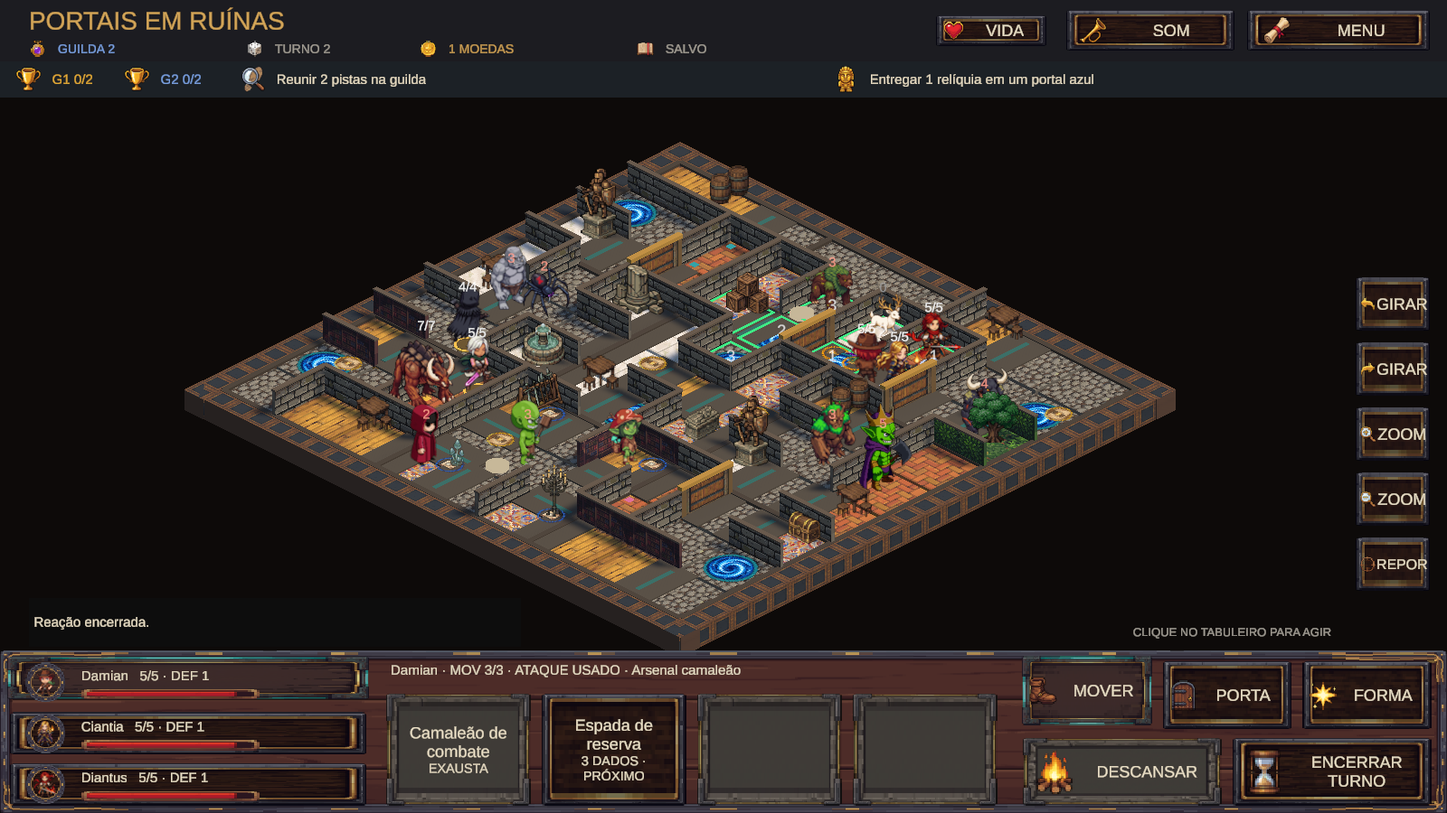
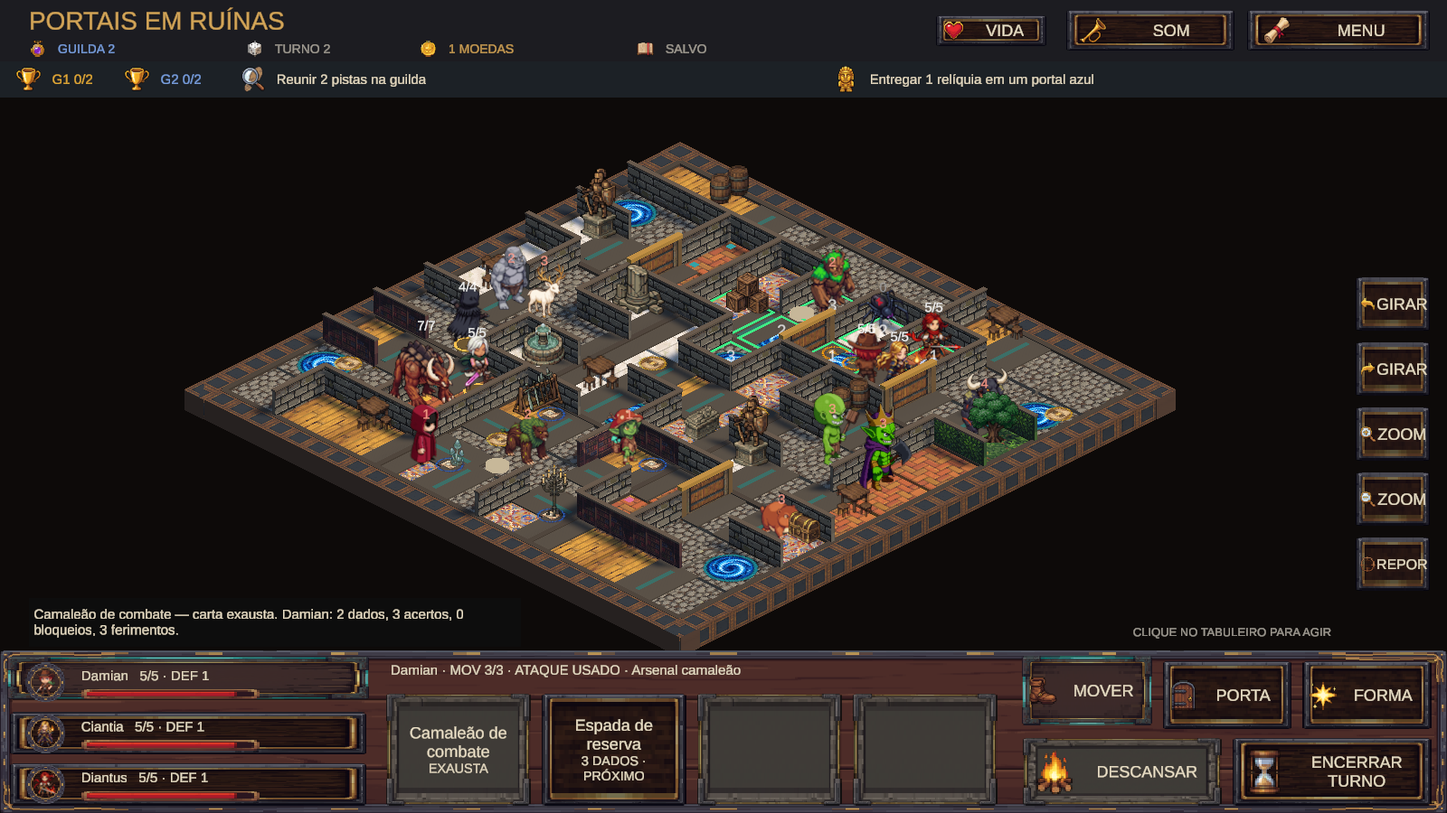
feat(dungeonbdx): enemies on Arcadia Quest level-1 stat lines and abilities
AqProfiles holds the card-list numbers (life, overkill, defense, move,
attack, coins) and ability of each reference monster; every enemy spawns
from one. Adds major minions, Papa-moedas, stray cats, Underlord guardian,
Lord Fang and Malkhor bosses, and the Havok young dragon line. The session
applies undying, pack, pierce, mend, cleave, brutal, quake, prickly,
might, breath and echo.

diff --git a/ArenaTaticaUnity/Assets/DungeonBDX/Arcadia/AqBoard.cs b/ArenaTaticaUnity/Assets/DungeonBDX/Arcadia/AqBoard.cs
@@ -35,12 +35,62 @@ namespace DungeonBDX.Arcadia
     }
     public sealed class AqSpawn
     {
-        public string HeroId,Name,SpriteFolder;
+        public string HeroId,Name,SpriteFolder,Profile,Ability,AbilityText;
         public AqCell Cell;
         public bool Ranged,Huge;
-        // Arcadia levels: minion, villain (minor villain), boss (major villain), dragon.
+        // Arcadia levels: minion (minor minion), major (major minion), villain (minor villain), boss (major villain), dragon.
         public string Tier="minion";
         public int Health=3,Defense,Dice=3,Movement=2,Overkill=5,Reward=1;
+    }
+    // Level-1 stat lines of the Arcadia Quest card list (KrosArcano/Arcadia_Quest_-_Card_List_1.2.xlsx, Monsters/Dragons).
+    // Only the numbers and the ability rule are reused; DungeonBDX enemies keep their own names and art.
+    // Attack dice above MaxDice (dragons roll 10) are capped by the session.
+    public sealed class AqProfile
+    {
+        public string Id,Reference,Tier,Ability,AbilityText;
+        public int Life,Overkill,Defense,Move,Attack,Coins;
+        public bool Ranged;
+    }
+    public static class AqProfiles
+    {
+        public static readonly IReadOnlyDictionary<string,AqProfile> All=Build();
+        static Dictionary<string,AqProfile> Build()
+        {
+            var d=new Dictionary<string,AqProfile>(StringComparer.Ordinal);
+            void P(string id,string reference,string tier,int life,int overkill,int defense,int move,bool ranged,int attack,int coins,string ability=null,string text=null)
+                =>d[id]=new AqProfile{Id=id,Reference=reference,Tier=tier,Life=life,Overkill=overkill,Defense=defense,Move=move,Ranged=ranged,Attack=attack,Coins=coins,Ability=ability,AbilityText=text};
+            // Minor minions.
+            P("marauder","Orc Marauder","minion",2,3,0,1,false,3,1);
+            P("skelebone","Skelebone","minion",2,5,1,1,false,3,1);
+            P("jackal","Jacklol","minion",2,3,1,3,false,2,1);
+            P("demoness","Demoness","minion",2,4,0,2,false,3,1);
+            P("pet","Wild Pet","minion",2,3,1,1,false,2,1);
+            P("zombie","Slasher Zombie","minion",2,2,0,1,false,2,1,"undying","Morto-vivo: descarta os ferimentos se não sofrer overkill.");
+            P("archer","Goblin Archer","minion",1,2,0,1,true,2,1);
+            P("harpy","Harpy","minion",1,2,0,3,true,2,1);
+            P("flinger","Axe Flinger Zombie","minion",2,2,0,1,true,2,1,"undying","Morto-vivo: descarta os ferimentos se não sofrer overkill.");
+            // Major minions.
+            P("hammer","Hammer Beastman","major",3,5,0,1,false,4,2);
+            P("korilla","Korilla","major",3,4,1,2,false,4,2);
+            P("ghost","Ghost","major",4,3,0,3,false,3,2);
+            P("spear","Spear Beastman","major",3,5,0,1,true,3,2,"pack","Matilha: +1 dado se estiver Perto de outro monstro.");
+            P("hornet","Hedgehornet","major",2,4,2,2,true,3,2,"pierce","Ferrão: com crítico, o alvo não rola defesa.");
+            P("sister","Sister of Pleasure","major",3,5,0,1,true,3,2,"mend","Deleite: cada crítico cura 2 ferimentos dele.");
+            // Minor villains.
+            P("troll","Troll","villain",4,6,2,2,false,4,3,"cleave","Varredura: ataca todos os heróis Perto.");
+            P("minotaur","Minotaur","villain",5,6,1,2,false,4,3,"brutal","Brutal: cada crítico causa 1 acerto extra.");
+            P("leah","Leah","villain",4,6,2,3,false,4,3,"quake","Rasante: depois de atacar, cada herói Perto sofre 1 ferimento.");
+            P("owlbunny","Owlbunny","villain",3,4,0,2,false,3,2,"prickly","Espinhento: quem o ataca sofre 1 ferimento antes.");
+            // Major villains.
+            P("dread","Dread King","boss",3,4,0,2,false,4,3,"might","Couraça: só críticos acertam.");
+            P("malkhor","Malkhor","boss",6,6,1,2,true,4,3,"brutal","Brutal: cada crítico causa 1 acerto extra.");
+            P("fang","Lord Fang","boss",5,7,0,1,true,4,3,"breath","Sede: também ataca os heróis Perto do alvo.");
+            P("underlord","The Underlord","boss",6,7,1,0,true,4,3,"echo","Eco: cada crítico fere 1 vez os outros heróis da guilda do alvo.");
+            // Young dragon, initial side (Havok).
+            P("dragon","Havok (Young - Initial)","dragon",10,11,2,1,true,10,4,"breath+might","Bafo e Couraça: atinge os heróis Perto do alvo; só críticos o acertam.");
+            return d;
+        }
+        public static bool Has(string ability,string id)=>!string.IsNullOrEmpty(ability)&&ability.Split('+').Contains(id);
     }
     public sealed class AqScenario
     {
@@ -178,7 +228,8 @@ namespace DungeonBDX.Arcadia
             for(int i=0;i<4;i++)s.Tokens.Add(new AqToken{Id="relic"+i,Kind="relic",Color="gold",Cell=new AqCell(6,3)});
             foreach(var c in new[]{new AqCell(4,7),new AqCell(1,4),new AqCell(7,4),new AqCell(4,1)})Monster(s,c.X,c.Y);
             foreach(var c in new[]{new AqCell(0,5),new AqCell(2,3),new AqCell(7,3),new AqCell(4,7)})Monster(s,c.X,c.Y,true);
-            Boss(s,"rei-goblin-ferrugem","Rei Goblin Ferrugem",4,0);Villain(s,"brumak","Capataz da ferrugem",6,0);
+            Spawn(s,"rei-goblin-ferrugem","Rei Goblin Ferrugem",4,0,"dread");Spawn(s,"brumak","Capataz da ferrugem",6,0,"troll");
+            Spawn(s,"papa-moedas","Papa-moedas do tesouro",2,0,"owlbunny");
             s.Name="PORTAIS EM RUÍNAS";s.Subtitle="Capítulo I · investigação e transporte";
             s.Story="Os portais da cidade foram sabotados. Investigue duas pistas nas oficinas ou retire uma relíquia da câmara do ritual e entregue-a em um portal azul para restaurar a rede. As guildas rivais também procuram o responsável.";
             s.Ending="A rede volta a brilhar. Entre os vestígios surge o selo de uma confraria que opera sob a praça.";
@@ -219,36 +270,34 @@ namespace DungeonBDX.Arcadia
         }
         static void Token(AqScenario s,string kind,int x,int y,string color="blue")
             =>s.Tokens.Add(new AqToken{Id=kind+s.Tokens.Count,Kind=kind,Color=color,Cell=new AqCell(x,y)});
-        // Each chapter alternates its own minions (one of each per spawn row); combat numbers stay those of the melee/ranged profile.
-        // Non-playable Arena characters (author, 17/10) fill the rows with chapter names; an id is never both melee and ranged in a chapter.
-        static readonly Dictionary<string,(string id,string name)[]> Melee=new Dictionary<string,(string,string)[]>{
-            ["portais-em-ruinas"]=new[]{("ogro-de-pedra","Saqueador de pedra"),("troll-esgoto","Troll do esgoto"),("raizor","Espinheiro do canal"),("guardiao-de-musgo","Musgoso das ruínas")},
-            ["praca-dos-quatro-emblemas"]=new[]{("domador-de-correntes","Carcereiro da confraria"),("lobo-de-cinzas","Lobo de cinzas"),("brumak","Arrombador da confraria"),("gryvro","Grifo de rapina")},
-            ["resgate-nas-catacumbas"]=new[]{("esqueleto-lanceiro","Esqueleto lanceiro"),("viuva-da-agulha","Viúva da agulha"),("devon","Morto inquieto"),("ossyro","Ceifador da cripta")}};
-        static readonly Dictionary<string,(string id,string name)[]> Shooters=new Dictionary<string,(string,string)[]>{
-            ["portais-em-ruinas"]=new[]{("cultista-encapuzado","Cultista encapuzado"),("nixira","Xamã dos cogumelos"),("alvyr","Aprendiz renegado"),("viuva-da-agulha","Tecelã de teias")},
-            ["praca-dos-quatro-emblemas"]=new[]{("vespa-cinzenta","Vespa cinzenta"),("cultista-encapuzado","Cultista encapuzado"),("rei-bobett","Coletor de tributos"),("alvyr","Arcanista da confraria")},
-            ["resgate-nas-catacumbas"]=new[]{("nixira","Xamã dos cogumelos"),("cultista-encapuzado","Cultista encapuzado"),("teantha","Espectro da foice"),("alvyr","Vidente do ritual")}};
+        // Each chapter alternates its own minions (one of each per spawn row): three minor minions and one major minion per side,
+        // each on the Arcadia level-1 line of its profile. Non-playable Arena characters keep chapter names; an id is never both melee and ranged in a chapter.
+        static readonly Dictionary<string,(string id,string name,string profile)[]> Melee=new Dictionary<string,(string,string,string)[]>{
+            ["portais-em-ruinas"]=new[]{("ogro-de-pedra","Saqueador de pedra","marauder"),("raizor","Espinheiro do canal","jackal"),("guardiao-de-musgo","Musgoso das ruínas","skelebone"),("troll-esgoto","Troll do esgoto","hammer")},
+            ["praca-dos-quatro-emblemas"]=new[]{("domador-de-correntes","Carcereiro da confraria","marauder"),("lobo-de-cinzas","Lobo de cinzas","jackal"),("gryvro","Grifo de rapina","demoness"),("brumak","Arrombador da confraria","korilla")},
+            ["resgate-nas-catacumbas"]=new[]{("esqueleto-lanceiro","Esqueleto lanceiro","skelebone"),("devon","Morto inquieto","zombie"),("viuva-da-agulha","Viúva da agulha","demoness"),("ossyro","Ceifador da cripta","ghost")}};
+        static readonly Dictionary<string,(string id,string name,string profile)[]> Shooters=new Dictionary<string,(string,string,string)[]>{
+            ["portais-em-ruinas"]=new[]{("cultista-encapuzado","Cultista encapuzado","archer"),("nixira","Xamã dos cogumelos","archer"),("viuva-da-agulha","Tecelã de teias","harpy"),("alvyr","Aprendiz renegado","spear")},
+            ["praca-dos-quatro-emblemas"]=new[]{("vespa-cinzenta","Vespa cinzenta","harpy"),("cultista-encapuzado","Cultista encapuzado","archer"),("alvyr","Arcanista da confraria","archer"),("rei-bobett","Coletor de tributos","hornet")},
+            ["resgate-nas-catacumbas"]=new[]{("nixira","Xamã dos cogumelos","archer"),("cultista-encapuzado","Cultista encapuzado","flinger"),("teantha","Espectro da foice","harpy"),("alvyr","Vidente do ritual","sister")}};
         // PixelLab enemies without an Arena fighter entry; their folders are passed straight to the unit.
         public static readonly IReadOnlyDictionary<string,string> EnemyArt=new Dictionary<string,string>{
             ["troll-esgoto"]="TrollEsgoto",["cultista-encapuzado"]="CultistaEncapuzado",["esqueleto-lanceiro"]="EsqueletoLanceiro",
-            ["rei-goblin-ferrugem"]="ReiGoblinFerrugem",["conde-vesperal"]="CondeVesperal",["necromante-cripta"]="NecromanteCripta"};
-        static AqSpawn Spawn(string id,string name,int x,int y)
-            =>new AqSpawn{HeroId=id,Name=name,Cell=new AqCell(x,y),SpriteFolder=EnemyArt.TryGetValue(id,out var f)?f:null};
-        // Chapter bosses: tougher than minions and worth 2 coins.
-        static void Boss(AqScenario s,string id,string name,int x,int y,bool ranged=false)
-        {var b=Spawn(id,name,x,y);b.Tier="boss";b.Ranged=ranged;b.Health=ranged?4:5;b.Defense=1;b.Dice=3;b.Overkill=6;b.Reward=2;s.Monsters.Add(b);}
-        // Minor villain (one per chapter): between a minion and the boss, worth 2 coins.
-        static void Villain(AqScenario s,string id,string name,int x,int y,bool ranged=false)
-        {var v=Spawn(id,name,x,y);v.Tier="villain";v.Ranged=ranged;v.Health=4;v.Defense=1;v.Dice=3;v.Overkill=5;v.Reward=2;s.Monsters.Add(v);}
-        // Young dragon (chapter III), simplified from the Arcadia dragons: fills its space, breathes from range, worth 4 coins.
-        static void Dragon(AqScenario s,string id,string name,int x,int y)
-        {var d=Spawn(id,name,x,y);d.Tier="dragon";d.Huge=true;d.Ranged=true;d.Health=9;d.Defense=2;d.Dice=5;d.Overkill=10;d.Reward=4;s.Monsters.Add(d);}
+            ["rei-goblin-ferrugem"]="ReiGoblinFerrugem",["conde-vesperal"]="CondeVesperal",["necromante-cripta"]="NecromanteCripta",
+            ["papa-moedas"]="PapaMoedas",["gato-malhado"]="GatoMalhado",["gato-laranja"]="GatoLaranja",["gato-branco"]="GatoBranco",["gato-manchado"]="GatoManchado"};
+        // Every enemy takes the whole line of its profile: life, overkill, defense dice, move, attack dice, coins and ability.
+        static AqSpawn Spawn(AqScenario s,string id,string name,int x,int y,string profile)
+        {
+            var p=AqProfiles.All[profile];
+            var m=new AqSpawn{HeroId=id,Name=name,Cell=new AqCell(x,y),SpriteFolder=EnemyArt.TryGetValue(id,out var f)?f:null,Profile=profile,Tier=p.Tier,
+                Ranged=p.Ranged,Health=p.Life,Overkill=p.Overkill,Defense=p.Defense,Movement=p.Move,Dice=p.Attack,Reward=p.Coins,Ability=p.Ability,AbilityText=p.AbilityText,Huge=p.Tier=="dragon"};
+            s.Monsters.Add(m);return m;
+        }
         static void Monster(AqScenario s,int x,int y,bool ranged=false)
         {
-            (string id,string name)[] table=(ranged?Shooters:Melee).TryGetValue(s.Id??"",out var list)?list:new[]{ranged?("cultista-encapuzado","Cultista encapuzado"):("ogro-de-pedra","Saqueador de pedra")};
-            var pick=table[s.Monsters.Count(m=>m.Ranged==ranged)%table.Length];
-            var m=Spawn(pick.id,pick.name,x,y);m.Ranged=ranged;m.Health=ranged?2:3;m.Dice=ranged?2:3;m.Overkill=ranged?4:5;s.Monsters.Add(m);
+            (string id,string name,string profile)[] table=(ranged?Shooters:Melee).TryGetValue(s.Id??"",out var list)?list:new[]{ranged?("cultista-encapuzado","Cultista encapuzado","archer"):("ogro-de-pedra","Saqueador de pedra","marauder")};
+            var pick=table[s.Monsters.Count(m=>m.Ranged==ranged&&(m.Tier=="minion"||m.Tier=="major"))%table.Length];
+            Spawn(s,pick.id,pick.name,x,y,pick.profile);
         }
         static void Plaza(AqScenario s)
         {
@@ -268,8 +317,11 @@ namespace DungeonBDX.Arcadia
             foreach(var c in new[]{new AqCell(1,3),new AqCell(7,3),new AqCell(3,7),new AqCell(3,1)})Monster(s,c.X,c.Y);
             foreach(var c in new[]{new AqCell(1,5),new AqCell(7,5),new AqCell(5,7),new AqCell(5,1)})Monster(s,c.X,c.Y,true);
             foreach(var c in new[]{new AqCell(0,2),new AqCell(8,6),new AqCell(2,8),new AqCell(6,0),new AqCell(3,4),new AqCell(5,4)})Token(s,"explore",c.X,c.Y);
-            s.Monsters.Add(new AqSpawn{HeroId="brutamontes-errante",Name="Guardião da praça",Cell=new AqCell(4,4),Tier="boss",Huge=true,Health=7,Defense=1,Dice=4,Overkill=8,Reward=3});
-            Villain(s,"ossyro","Carrasco da confraria",5,8);
+            Spawn(s,"brutamontes-errante","Guardião da praça",4,4,"underlord").Huge=true;
+            // Wild pets of the square: stray cats around the central plaza.
+            Spawn(s,"gato-malhado","Gato de rua",3,3,"pet");Spawn(s,"gato-laranja","Gato de rua",5,5,"pet");
+            Spawn(s,"gato-branco","Gato de rua",3,5,"pet");Spawn(s,"gato-manchado","Gato de rua",5,3,"pet");
+            Spawn(s,"ossyro","Carrasco da confraria",5,8,"minotaur");
         }
         static void Catacombs(AqScenario s)
         {
@@ -289,8 +341,8 @@ namespace DungeonBDX.Arcadia
             Token(s,"portal",2,6);Token(s,"portal",6,2);Token(s,"portal",2,2,"violet");Token(s,"portal",6,6,"violet");
             foreach(var c in new[]{new AqCell(1,4),new AqCell(7,4),new AqCell(4,6),new AqCell(4,2)})Monster(s,c.X,c.Y);
             foreach(var c in new[]{new AqCell(1,5),new AqCell(7,3),new AqCell(3,7),new AqCell(5,1)})Monster(s,c.X,c.Y,true);
-            Boss(s,"necromante-cripta","Necromante da Cripta",3,5,true);Boss(s,"conde-vesperal","Conde Vesperal",5,3);
-            Villain(s,"gryvro","Grifo das criptas",6,5);Dragon(s,"dragao-espectral","Dragão espectral",4,4);
+            Spawn(s,"necromante-cripta","Necromante da Cripta",3,5,"malkhor");Spawn(s,"conde-vesperal","Conde Vesperal",5,3,"fang");
+            Spawn(s,"gryvro","Grifo das criptas",6,5,"leah");Spawn(s,"dragao-espectral","Dragão espectral",4,4,"dragon");
             foreach(var c in new[]{new AqCell(0,6),new AqCell(8,2),new AqCell(2,8),new AqCell(6,0),new AqCell(4,4),new AqCell(0,2),new AqCell(8,6)})Token(s,"explore",c.X,c.Y);
         }
         // Extra scenery only: never replaces a room prop and has no rule effect.

diff --git a/ArenaTaticaUnity/Assets/DungeonBDX/Arcadia/AqSession.cs b/ArenaTaticaUnity/Assets/DungeonBDX/Arcadia/AqSession.cs
@@ -73,7 +73,7 @@ namespace DungeonBDX.Arcadia
                 Units.Last(u=>u.Guild==g).Gear.Add(new AqGear{Id="bow."+g,Name="Arco de reserva",Dice=2,Ranged=true});
             }
             foreach(var m in Scenario.Monsters)
-                Units.Add(new AqUnit{Id=Units.Count,Guild=-1,Monster=true,HeroId=m.HeroId,Name=m.Name??(m.HeroId=="brutamontes-errante"?"Guardião da praça":"Saqueador de pedra"),SpriteFolder=m.SpriteFolder,
+                Units.Add(new AqUnit{Id=Units.Count,Guild=-1,Monster=true,HeroId=m.HeroId,Name=m.Name??(m.HeroId=="brutamontes-errante"?"Guardião da praça":"Saqueador de pedra"),SpriteFolder=m.SpriteFolder,Ability=m.Ability,AbilityText=m.AbilityText??"",
                     Cell=m.Cell,Health=m.Health,MaxHealth=m.Health,Defense=m.Defense,Dice=m.Dice,Ranged=m.Ranged,Movement=m.Movement,Overkill=m.Overkill,Reward=m.Reward,Huge=m.Huge||m.HeroId=="brutamontes-errante"});
         }
         public AqUnit Unit(int id)=>Units.FirstOrDefault(u=>u.Id==id);
@@ -218,6 +218,7 @@ namespace DungeonBDX.Arcadia
                 waitingAttack=false;var target=Unit(attackTarget);var gear=u.Gear[attackCard];
                 if(target==null||!target.Alive)return;
                 var dealt=Strike(u,target,gear,r);
+                if(target.Monster&&target.Alive&&dealt>0&&dealt<target.Overkill&&AqProfiles.Has(target.Ability,"undying"))target.Health=target.MaxHealth;
                 if(target.Monster&&dealt<target.Overkill)
                     reactions.Add(new AqReaction{Monster=target.Id,Hero=u.Id,Vengeance=true,Movement=u.Ability=="web"&&dealt>0?0:target.Movement,Dying=!target.Alive});
                 else if(!target.Alive)Kill(target,u,r);
@@ -247,7 +248,12 @@ namespace DungeonBDX.Arcadia
             var attack=new AqGear{Dice=m.Dice,Ranged=m.Ranged,Clip="attack"};
             if(!CanTarget(m,hero,attack))return Fail("O monstro não alcança o herói ativo.");
             var result=Ok("Reação de "+m.Name+".");Strike(m,hero,attack,result);
-            if(!hero.Alive)Kill(hero,m,result);FinishReaction(result);return result;
+            if(!hero.Alive)Kill(hero,m,result);
+            // Arcadia multi-target attacks: cleave hits every hero Close to the monster, breath every hero Close to the target.
+            if(AqProfiles.Has(m.Ability,"cleave")||AqProfiles.Has(m.Ability,"breath"))
+                foreach(var v in Units.Where(v=>v.Alive&&v!=hero&&!v.Monster&&(AqProfiles.Has(m.Ability,"cleave")&&Board.Close(m.Cell,v.Cell)||AqProfiles.Has(m.Ability,"breath")&&Board.Close(hero.Cell,v.Cell))&&CanTarget(m,v,attack)).OrderBy(v=>v.Id).ToArray())
+                {Strike(m,v,attack,result);if(!v.Alive)Kill(v,m,result);}
+            FinishReaction(result);return result;
         }
         void FinishReaction(AqResult r)
         {
@@ -291,11 +297,17 @@ namespace DungeonBDX.Arcadia
             if(a.Ability=="fury"&&!gear.Ranged&&a.Health<a.MaxHealth||a.Ability=="sniper"&&gear.Ranged&&Moved==0||a.Ability=="colossus"&&!gear.Ranged&&b.Monster||a.Ability=="charge"&&!gear.Ranged&&Moved>=3||a.Ability=="reaper"&&b.Health<b.MaxHealth||a.Ability=="frost"&&Occupants(b.Cell).Count()>1)dice++;
             if(a.Ability=="flank"&&Units.Any(v=>v.Alive&&v!=a&&Enemy(b,v)&&Board.Close(v.Cell,b.Cell)))dice++;
             if(a.Ability=="isolate"&&!Units.Any(v=>v.Alive&&v!=b&&!Enemy(b,v)&&Board.Close(v.Cell,b.Cell)))dice++;
+            if(AqProfiles.Has(a.Ability,"pack")&&Units.Any(v=>v.Alive&&v!=a&&v.Monster&&Board.Close(v.Cell,a.Cell)))dice++;
+            if(AqProfiles.Has(b.Ability,"prickly")&&!a.Monster)
+            {Hurt(a,1,b,r);if(!a.Alive){Kill(a,b,r);r.Message+=$" {a.Name} cai nos espinhos de {b.Name}.";return 0;}}
             int hits=Roll(dice,gear.Ranged,false,a.Ability=="focus"&&gear.Ranged,out int crit);
+            if(AqProfiles.Has(b.Ability,"might"))hits=crit+Math.Min(3,crit);
+            if(AqProfiles.Has(a.Ability,"brutal"))hits+=crit;
             if(a.Ability=="berserk"&&a.Health==1&&!gear.Ranged)hits++;
             int defense=b.Defense+b.Gear.Sum(g=>g.Defense);
             if(b.Ability=="moss"&&Board.Space(b.Cell).Room!=""||b.Ability=="stone"&&!gear.Ranged)defense++;
             if(a.Ability=="gunslinger"&&gear.Ranged)defense=Math.Max(0,defense-1);
+            if(AqProfiles.Has(a.Ability,"pierce")&&crit>0)defense=0;
             int saves=Roll(defense,false,true,false,out _);
             // Same hard mitigation ceiling requested for DungeonBDX; defense dice replace armor ratings.
             saves=Math.Min(saves,(int)Math.Floor(hits*.6));
@@ -304,6 +316,11 @@ namespace DungeonBDX.Arcadia
             r.Effects.Add(new AqEffect{Kind="attack",Actor=a.Id,Target=b.Id,From=a.Cell,To=b.Cell,Clip=gear.Clip});
             Hurt(b,amount,a,r);
             if(amount>0&&a.Ability=="drain")Heal(a,a,1,r);
+            if(crit>0&&AqProfiles.Has(a.Ability,"mend"))Heal(a,a,2*crit,r);
+            if(crit>0&&AqProfiles.Has(a.Ability,"echo")&&!b.Monster)
+                foreach(var v in Units.Where(v=>v.Alive&&v!=b&&!v.Monster&&v.Guild==b.Guild).ToArray()){Hurt(v,Math.Min(3,crit),a,r);if(!v.Alive)Kill(v,a,r);}
+            if(AqProfiles.Has(a.Ability,"quake"))
+                foreach(var v in Units.Where(v=>v.Alive&&!v.Monster&&Enemy(a,v)&&Board.Close(a.Cell,v.Cell)).ToArray()){Hurt(v,1,a,r);if(!v.Alive&&v!=b)Kill(v,a,r);}
             if(amount>0&&a.Ability=="bond")
             {
                 var friend=Units.Where(v=>v.Alive&&v!=a&&v.Guild==a.Guild&&!v.Monster&&v.Health<v.MaxHealth&&Board.Close(a.Cell,v.Cell)).OrderBy(v=>v.Health).ThenBy(v=>v.Id).FirstOrDefault();

diff --git a/ArenaTaticaUnity/Assets/DungeonBDX/Tests/Arcadia/AqMapTests.cs b/ArenaTaticaUnity/Assets/DungeonBDX/Tests/Arcadia/AqMapTests.cs
@@ -96,7 +96,8 @@ namespace DungeonBDX.Tests
         {
             foreach(var id in AqScenarios.Ids)
             {
-                var minions=AqScenarios.Create(id).Monsters.Where(m=>m.Tier=="minion").ToArray();
+                // Spawn rows: three minor minions and one major minion per side; wild pets come on top.
+                var minions=AqScenarios.Create(id).Monsters.Where(m=>(m.Tier=="minion"||m.Tier=="major")&&m.Profile!="pet").ToArray();
                 var melee=minions.Where(m=>!m.Ranged).Select(m=>m.HeroId).Distinct().ToArray();var ranged=minions.Where(m=>m.Ranged).Select(m=>m.HeroId).Distinct().ToArray();
                 Assert.That(melee,Has.Length.EqualTo(4),id);Assert.That(ranged,Has.Length.EqualTo(4),id);
                 // Monster dice are looked up by id, so one id never plays both profiles in a chapter.
@@ -108,19 +109,40 @@ namespace DungeonBDX.Tests
         {
             foreach(var id in AqScenarios.Ids)
             {
-                var s=AqScenarios.Create(id);var villain=s.Monsters.Single(m=>m.Tier=="villain");
-                var minion=s.Monsters.First(m=>m.Tier=="minion");int boss=s.Monsters.Where(m=>m.Tier=="boss").Max(m=>m.Health);
-                // A minor villain sits between the minions and the chapter boss.
-                Assert.That(villain.Health,Is.GreaterThan(minion.Health).And.LessThan(boss),id);
-                Assert.That(villain.Reward,Is.GreaterThan(minion.Reward),id);
-                Assert.That(AqContent.Playable,Has.No.Member(villain.HeroId),id);
+                var s=AqScenarios.Create(id);
+                foreach(var tier in new[]{"minion","major","villain","boss"})Assert.That(s.Monsters.Any(m=>m.Tier==tier),Is.True,id+" "+tier);
+                int Coins(string tier)=>s.Monsters.Where(m=>m.Tier==tier).Max(m=>m.Reward);
+                // Arcadia coins: minor minion 1, major minion 2, villains 2-3, major villain 3.
+                Assert.That(Coins("minion"),Is.LessThan(s.Monsters.Where(m=>m.Tier=="major").Min(m=>m.Reward)),id);
+                Assert.That(s.Monsters.Where(m=>m.Tier=="villain").Min(m=>m.Reward),Is.GreaterThanOrEqualTo(2),id);
+                Assert.That(s.Monsters.Where(m=>m.Tier=="boss").Min(m=>m.Reward),Is.EqualTo(3),id);
+                Assert.That(s.Monsters.Where(m=>m.Tier=="villain"||m.Tier=="boss").Select(m=>m.HeroId).Intersect(AqContent.Playable),Is.Empty,id);
             }
             var crypt=AqScenarios.Create(AqScenarios.Ids[2]);var dragon=crypt.Monsters.Single(m=>m.Tier=="dragon");
             Assert.That(dragon.Huge,Is.True);Assert.That(dragon.Health,Is.GreaterThan(crypt.Monsters.Where(m=>m.Tier!="dragon").Max(m=>m.Health)));
+            Assert.That(dragon.Reward,Is.EqualTo(4));
             // A huge figure fills its space: nobody else starts there.
             Assert.That(crypt.Monsters.Count(m=>m.Cell.Equals(dragon.Cell)),Is.EqualTo(1));
             var session=new AqSession(AqScenarios.Ids[2],new[]{new[]{"colosso","ciantia","talyssa"},new[]{"damian","perry","diantus"}});
             Assert.That(session.Units.Single(u=>u.HeroId=="dragao-espectral").Huge,Is.True);
+        }
+
+        [Test] public void EveryEnemyUsesTheWholeArcadiaLineOfItsProfile()
+        {
+            foreach(var id in AqScenarios.Ids)
+            {
+                var s=AqScenarios.Create(id);var session=new AqSession(id,new[]{new[]{"colosso","ciantia","talyssa"},new[]{"damian","perry","diantus"}});
+                foreach(var m in s.Monsters)
+                {
+                    Assert.That(AqProfiles.All.ContainsKey(m.Profile??""),Is.True,m.HeroId);var p=AqProfiles.All[m.Profile];
+                    Assert.That(new[]{m.Health,m.Overkill,m.Defense,m.Movement,m.Dice,m.Reward},Is.EqualTo(new[]{p.Life,p.Overkill,p.Defense,p.Move,p.Attack,p.Coins}),m.HeroId);
+                    Assert.That(m.Ranged,Is.EqualTo(p.Ranged),m.HeroId);Assert.That(m.Tier,Is.EqualTo(p.Tier),m.HeroId);
+                    // The live unit carries the ability so the session can apply it.
+                    Assert.That(session.Units.First(u=>u.Monster&&u.HeroId==m.HeroId).Ability,Is.EqualTo(p.Ability),m.HeroId);
+                }
+            }
+            Assert.That(AqProfiles.All["troll"].Reference,Is.EqualTo("Troll"));
+            Assert.That(AqProfiles.All.Values.Count(p=>p.Ability!=null&&p.AbilityText==null),Is.Zero);
         }
 
         [Test] public void ChaptersVaryMinionsAndBossesUseExportedArt()

diff --git a/ArenaTaticaUnity/Assets/DungeonBDX/Tests/Arcadia/AqCombatTests.cs b/ArenaTaticaUnity/Assets/DungeonBDX/Tests/Arcadia/AqCombatTests.cs
@@ -250,5 +250,68 @@ namespace DungeonBDX.Tests
             }
             Assert.That(reflectedKill, Is.True);
         }
+
+        // Arcadia monster abilities (AqProfiles): numbers come from the card list, rules from the ability text.
+        static AqUnit Target(AqSession s, string ability)
+        {
+            var m = s.Units.First(u => u.Monster); s.Unit(3).Cell = new AqCell(7, 7);
+            m.Cell = new AqCell(4, 4); m.Health = m.MaxHealth = 100; m.Defense = 0; m.Overkill = 1000; m.Ability = ability;
+            return m;
+        }
+
+        [Test]
+        public void MightLetsOnlyCriticalsWoundTheMonster()
+        {
+            int plain = 0, might = 0;
+            for (uint seed = 1; seed <= 40; seed++)
+            {
+                var a = Duel(seed); a.Unit(0).Gear[0].Dice = 6; var ma = Target(a, "");
+                var b = Duel(seed); b.Unit(0).Gear[0].Dice = 6; var mb = Target(b, "breath+might");
+                int wa = Wounds(Attack(a, ma.Id), ma.Id), wb = Wounds(Attack(b, mb.Id), mb.Id);
+                Assert.That(wb, Is.LessThanOrEqualTo(wa), "seed " + seed);
+                plain += wa; might += wb;
+            }
+            Assert.That(might, Is.LessThan(plain));
+        }
+
+        [Test]
+        public void UndyingMonstersDiscardWoundsUnlessOverkilled()
+        {
+            bool shrugged = false;
+            for (uint seed = 1; seed <= 60; seed++)
+            {
+                var s = Duel(seed); s.Unit(0).Gear[0].Dice = 1; var m = Target(s, "undying");
+                m.Health = m.MaxHealth = 2; m.Overkill = 2;
+                int w = Wounds(Attack(s, m.Id), m.Id);
+                if (w == 1) { shrugged = true; Assert.That(m.Health, Is.EqualTo(2)); }
+                if (w >= 2) Assert.That(m.Alive, Is.False);
+            }
+            Assert.That(shrugged, Is.True);
+        }
+
+        [Test]
+        public void PricklyMonstersWoundWhoeverAttacksThem()
+        {
+            var s = Duel(5); var m = Target(s, "prickly");
+            var r = Attack(s, m.Id);
+            Assert.That(r.Effects.Any(e => e.Kind == "hit" && e.Target == 0 && e.Actor == m.Id && e.Amount == 1), Is.True);
+        }
+
+        [Test]
+        public void CleaveAttacksEveryHeroCloseToTheMonster()
+        {
+            bool both = false;
+            for (uint seed = 1; seed <= 20 && !both; seed++)
+            {
+                var s = Duel(seed); var m = Target(s, "cleave"); m.Dice = 6; m.Ranged = false;
+                s.Unit(1).Cell = new AqCell(4, 5);
+                Apply(s, "move", 0, x: 2, y: 4);
+                Assert.That(s.Reaction, Is.Not.Null);
+                var r = Apply(s, "react-attack");
+                both = r.Effects.Any(e => e.Kind == "attack" && e.Actor == m.Id && e.Target == 0)
+                    && r.Effects.Any(e => e.Kind == "attack" && e.Actor == m.Id && e.Target == 1);
+            }
+            Assert.That(both, Is.True);
+        }
     }
 }

diff --git a/ArenaTaticaUnity/Assets/DungeonBDX/Runtime/AqMatch.cs b/ArenaTaticaUnity/Assets/DungeonBDX/Runtime/AqMatch.cs
@@ -148,7 +148,7 @@ namespace DungeonBDX
                 if(u.Alive)AqUi.LifeBar(b.transform,portrait?.25f:.2f,.1f,portrait?.6f:.5f,.24f,u.Health,u.MaxHealth);
             }
             var hero=Session.Unit(selected);string ability=hero.AbilityText.Split(':')[0];
-            string state=Session.Reaction!=null?$"GUILDA {Session.Controller+1}: REAÇÃO DE {Session.Unit(Session.Reaction.Monster).Name.ToUpperInvariant()} · MOV {Session.Reaction.Movement}":
+            string state=Session.Reaction!=null?$"GUILDA {Session.Controller+1}: REAÇÃO DE {Session.Unit(Session.Reaction.Monster).Name.ToUpperInvariant()} · MOV {Session.Reaction.Movement}"+(string.IsNullOrEmpty(Session.Unit(Session.Reaction.Monster).AbilityText)?"":" · "+Session.Unit(Session.Reaction.Monster).AbilityText.Split(':')[0]):
                 Session.Resting?"DESCANSO · carta + herói transfere; caído ressuscita":$"{hero.Name} · MOV {Session.MovesLeft}/3 · ATAQUE {(Session.Attacked?"USADO":"PRONTO")} · {ability}";
             AqUi.Text(foot,state,stateArea.x,stateArea.y,stateArea.width,stateArea.height,15,AqUi.Ink);
             for(int i=0;i<4;i++)

diff --git a/ArenaTaticaUnity/Assets/DungeonBDX/Runtime/AqHeroImport.cs b/ArenaTaticaUnity/Assets/DungeonBDX/Runtime/AqHeroImport.cs
@@ -19,7 +19,7 @@ namespace DungeonBDX
             return null;
         }
         public static float Height(string id)=>id=="colosso"?2.4f:id=="dragao-espectral"?2.6f:id=="brutamontes-errante"?2.5f:id=="cheiro-pneu"?2.1f:
-            id=="principe-kellen"?1f:id=="perry"?1.2f:id=="vespa-cinzenta"?.8f:
+            id=="principe-kellen"?1f:id=="perry"?1.2f:id=="vespa-cinzenta"?.8f:id.StartsWith("gato-")?.75f:id=="papa-moedas"?1.1f:
             id=="rei-goblin-ferrugem"||id=="conde-vesperal"||id=="necromante-cripta"?1.8f:1.5f;
         public static string[][] DefaultParties(int count=2)=>new[]{new[]{"colosso","arqueiro-jack","talyssa"},new[]{"damian","ciantia","diantus"},
             new[]{"edgar","perry","ezequiela"},new[]{"baltazar","asamyh","principe-kellen"}}.Take(Mathf.Clamp(count,2,4)).ToArray();

diff --git a/ArenaTaticaUnity/Assets/DungeonBDX/Runtime/AqBoardView.cs b/ArenaTaticaUnity/Assets/DungeonBDX/Runtime/AqBoardView.cs
@@ -1077,7 +1077,7 @@ namespace DungeonBDX
         static float TargetHeight(AqUnit unit)
         {
             // Figures stay smaller than a space (the table reads as a map, not as oversized miniatures).
-            return FigureScale*(unit.Monster&&!unit.Huge&&unit.Reward<2?1.35f:AqHeroImport.Height(unit.HeroId));
+            return FigureScale*(unit.Monster&&!unit.Huge&&unit.Reward<2?Mathf.Min(1.35f,AqHeroImport.Height(unit.HeroId)):AqHeroImport.Height(unit.HeroId));
         }
 
         static bool IsWide(AqUnit unit) => unit != null && (unit.Huge || unit.HeroId == "colosso");

diff --git a/coordenacao/dungeonbdx/HANDOFF-CLAUDE-17-10-2026.md b/coordenacao/dungeonbdx/HANDOFF-CLAUDE-17-10-2026.md
@@ -64,3 +64,11 @@
 - Pacotes: o PackageCache foi recriado. 13 pacotes pediam login no Hub, então reaproveitei os tarballs do backup `%LOCALAPPDATA%/Unity/cache/upm.corrompido`. Os embutidos do Editor que faltarem são copiados por `$TEMP/cmp_pkgs.py fix` (compara com `BuiltInPackages`).
 - A instalação do Editor 6000.6.4f1 perdeu 24 arquivos (HDRP, physics, não usados). Se der problema, reparar pelo Hub.
 - A Lixeira tem 21 arquivos de `Rpg/Tripo` e 5 de `Rpg`, para o autor decidir se restaura.
+
+## Inimigos no padrão Arcadia Quest (17/10, autor: "use como padrão skills e valores do arcadia quest")
+- `AqProfiles` (AqBoard.cs): linhas de nível 1 da planilha `KrosArcano/Arcadia_Quest_-_Card_List_1.2.xlsx` (vida, overkill, defesa, movimento, dados, moedas, habilidade). Todo inimigo nasce de um perfil (`Spawn(..., perfil)`); nomes e arte continuam do DungeonBDX. Dragão: Havok jovem (10 dados limitados a `MaxDice` 6).
+- Níveis: `minion` (lacaio menor), `major` (lacaio maior: 4º tipo de cada fileira), `villain`, `boss`, `dragon`.
+- Habilidades no motor (`AqSession`): undying, pack, pierce, mend, cleave, brutal, quake, prickly, might, breath, echo (`AqProfiles.Has`, combináveis com `+`). Sem efeitos de status (atordoar, empurrar, invocar ficaram de fora).
+- Novos: Papa-moedas (Owlbunny) no cap. I; 4 gatos de rua (Wild Pet) e o Guardião como Underlord no II; Conde Vesperal = Lord Fang (à distância), Necromante = Malkhor no III.
+- EditMode 417/417, build ok, capturas ok. **Balanceamento ainda não jogado pelo autor.**
+- PIL do Python do Codex quebrado (CCleaner): `from PIL import Image` falha.
